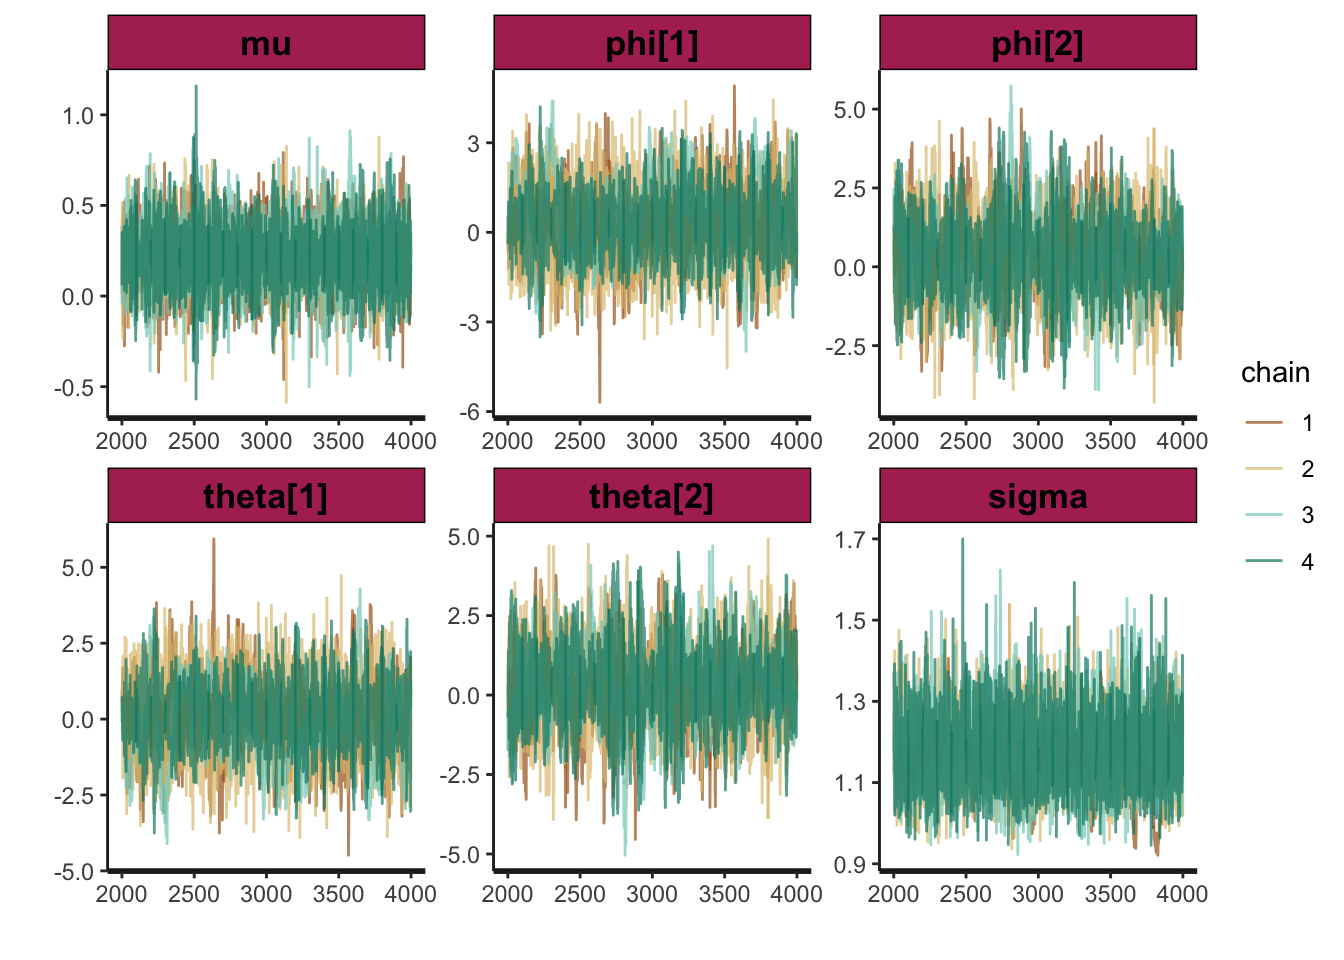
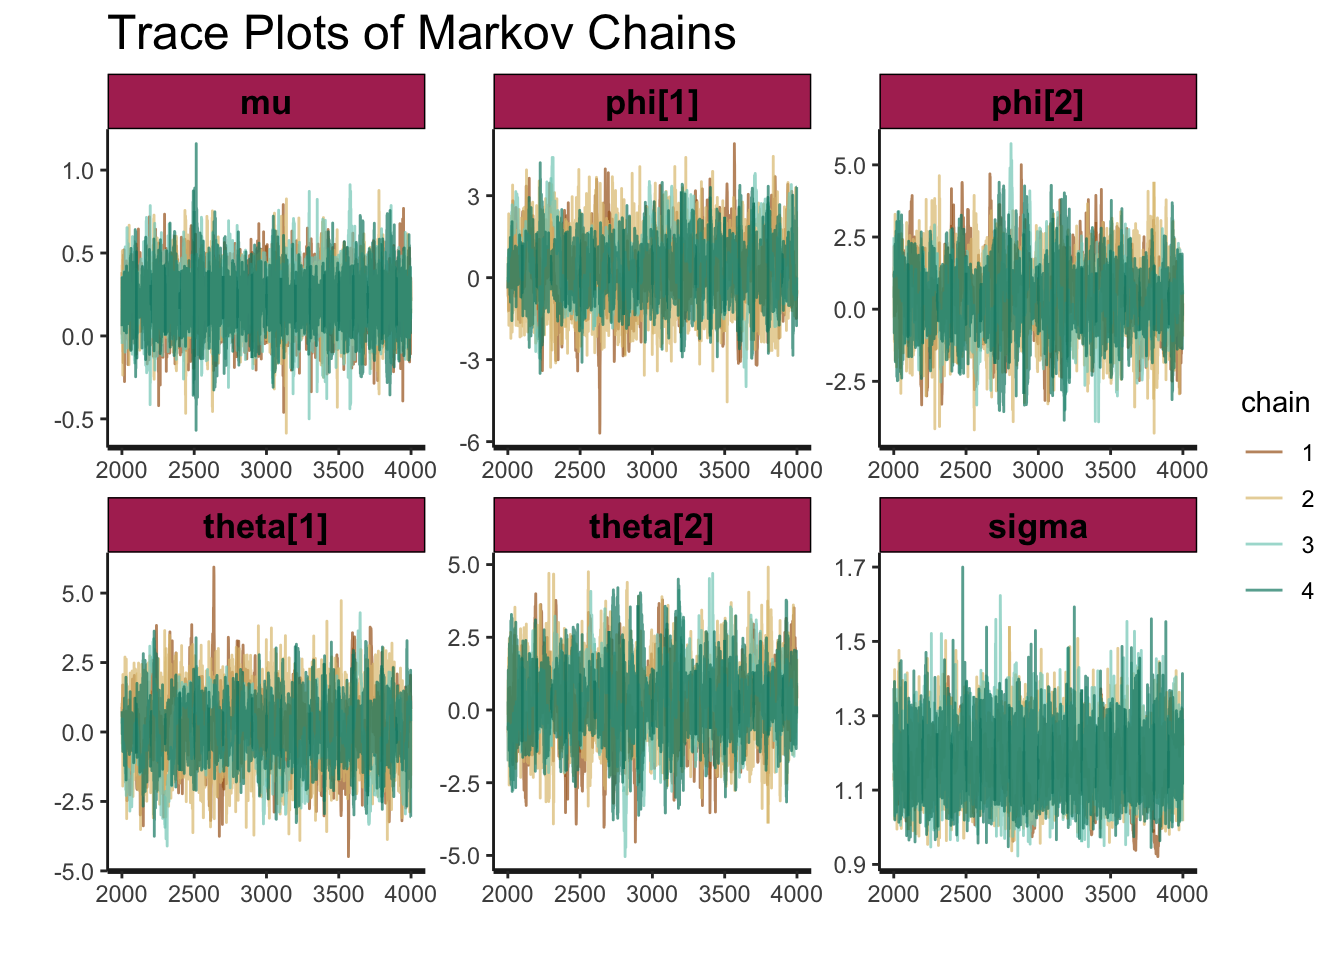
update about me section

diff --git a/P_Bayesian_TS.html b/P_Bayesian_TS.html
@@ -613,15 +613,15 @@ AR1_fit &lt;- rstan::stan(&quot;Stan_files/AR1.stan&quot;,
 ## Chain 1: Iteration: 1500 / 2000 [ 75%]  (Sampling)
 ## Chain 1: Iteration: 2000 / 2000 [100%]  (Sampling)
 ## Chain 1: 
-## Chain 1:  Elapsed Time: 0.055072 seconds (Warm-up)
-## Chain 1:                0.051779 seconds (Sampling)
-## Chain 1:                0.106851 seconds (Total)
+## Chain 1:  Elapsed Time: 0.058002 seconds (Warm-up)
+## Chain 1:                0.052662 seconds (Sampling)
+## Chain 1:                0.110664 seconds (Total)
 ## Chain 1: 
 ## 
 ## SAMPLING FOR MODEL &#39;AR1&#39; NOW (CHAIN 2).
 ## Chain 2: 
-## Chain 2: Gradient evaluation took 6e-06 seconds
-## Chain 2: 1000 transitions using 10 leapfrog steps per transition would take 0.06 seconds.
+## Chain 2: Gradient evaluation took 7e-06 seconds
+## Chain 2: 1000 transitions using 10 leapfrog steps per transition would take 0.07 seconds.
 ## Chain 2: Adjust your expectations accordingly!
 ## Chain 2: 
 ## Chain 2: 
@@ -632,15 +632,15 @@ AR1_fit &lt;- rstan::stan(&quot;Stan_files/AR1.stan&quot;,
 ## Chain 2: Iteration: 1500 / 2000 [ 75%]  (Sampling)
 ## Chain 2: Iteration: 2000 / 2000 [100%]  (Sampling)
 ## Chain 2: 
-## Chain 2:  Elapsed Time: 0.058262 seconds (Warm-up)
-## Chain 2:                0.048113 seconds (Sampling)
-## Chain 2:                0.106375 seconds (Total)
+## Chain 2:  Elapsed Time: 0.06011 seconds (Warm-up)
+## Chain 2:                0.04818 seconds (Sampling)
+## Chain 2:                0.10829 seconds (Total)
 ## Chain 2: 
 ## 
 ## SAMPLING FOR MODEL &#39;AR1&#39; NOW (CHAIN 3).
 ## Chain 3: 
-## Chain 3: Gradient evaluation took 7e-06 seconds
-## Chain 3: 1000 transitions using 10 leapfrog steps per transition would take 0.07 seconds.
+## Chain 3: Gradient evaluation took 5e-06 seconds
+## Chain 3: 1000 transitions using 10 leapfrog steps per transition would take 0.05 seconds.
 ## Chain 3: Adjust your expectations accordingly!
 ## Chain 3: 
 ## Chain 3: 
@@ -651,15 +651,15 @@ AR1_fit &lt;- rstan::stan(&quot;Stan_files/AR1.stan&quot;,
 ## Chain 3: Iteration: 1500 / 2000 [ 75%]  (Sampling)
 ## Chain 3: Iteration: 2000 / 2000 [100%]  (Sampling)
 ## Chain 3: 
-## Chain 3:  Elapsed Time: 0.060109 seconds (Warm-up)
-## Chain 3:                0.054297 seconds (Sampling)
-## Chain 3:                0.114406 seconds (Total)
+## Chain 3:  Elapsed Time: 0.058391 seconds (Warm-up)
+## Chain 3:                0.053137 seconds (Sampling)
+## Chain 3:                0.111528 seconds (Total)
 ## Chain 3: 
 ## 
 ## SAMPLING FOR MODEL &#39;AR1&#39; NOW (CHAIN 4).
 ## Chain 4: 
-## Chain 4: Gradient evaluation took 6e-06 seconds
-## Chain 4: 1000 transitions using 10 leapfrog steps per transition would take 0.06 seconds.
+## Chain 4: Gradient evaluation took 5e-06 seconds
+## Chain 4: 1000 transitions using 10 leapfrog steps per transition would take 0.05 seconds.
 ## Chain 4: Adjust your expectations accordingly!
 ## Chain 4: 
 ## Chain 4: 
@@ -670,9 +670,9 @@ AR1_fit &lt;- rstan::stan(&quot;Stan_files/AR1.stan&quot;,
 ## Chain 4: Iteration: 1500 / 2000 [ 75%]  (Sampling)
 ## Chain 4: Iteration: 2000 / 2000 [100%]  (Sampling)
 ## Chain 4: 
-## Chain 4:  Elapsed Time: 0.058601 seconds (Warm-up)
-## Chain 4:                0.060499 seconds (Sampling)
-## Chain 4:                0.1191 seconds (Total)
+## Chain 4:  Elapsed Time: 0.057353 seconds (Warm-up)
+## Chain 4:                0.054564 seconds (Sampling)
+## Chain 4:                0.111917 seconds (Total)
 ## Chain 4:</code></pre>
 <pre class="r"><code># the model 
 AR1_fit</code></pre>
@@ -686,7 +686,7 @@ AR1_fit</code></pre>
 ## sigma     1.45    0.00 0.12   1.24   1.36   1.44   1.52   1.70  2626    1
 ## lp__    -70.80    0.03 1.25 -73.92 -71.39 -70.49 -69.86 -69.35  1829    1
 ## 
-## Samples were drawn using NUTS(diag_e) at Sun May 10 00:55:13 2020.
+## Samples were drawn using NUTS(diag_e) at Sun May 10 01:26:13 2020.
 ## For each parameter, n_eff is a crude measure of effective sample size,
 ## and Rhat is the potential scale reduction factor on split chains (at 
 ## convergence, Rhat=1).</code></pre>
@@ -757,7 +757,7 @@ ARp_fit</code></pre>
 ## sigma      1.17    0.00 0.09   1.00   1.10   1.16   1.22   1.37  1429 1.00
 ## lp__     -55.96    0.06 1.67 -60.18 -56.73 -55.62 -54.79 -53.86   793 1.01
 ## 
-## Samples were drawn using NUTS(diag_e) at Sun May 10 00:55:15 2020.
+## Samples were drawn using NUTS(diag_e) at Sun May 10 01:26:15 2020.
 ## For each parameter, n_eff is a crude measure of effective sample size,
 ## and Rhat is the potential scale reduction factor on split chains (at 
 ## convergence, Rhat=1).</code></pre>
@@ -822,7 +822,7 @@ ARCH1_fit</code></pre>
 ## sigma      2.12    0.03 0.88    1.02    1.48    1.90   2.51   4.39   670 1.00
 ## lp__    -100.58    0.07 1.48 -104.29 -101.35 -100.24 -99.49 -98.60   444 1.01
 ## 
-## Samples were drawn using NUTS(diag_e) at Sun May 10 00:55:18 2020.
+## Samples were drawn using NUTS(diag_e) at Sun May 10 01:26:18 2020.
 ## For each parameter, n_eff is a crude measure of effective sample size,
 ## and Rhat is the potential scale reduction factor on split chains (at 
 ## convergence, Rhat=1).</code></pre>
@@ -903,7 +903,7 @@ MAq_fit</code></pre>
 ## sigma       4.11    2.59  2.59    1.33    1.51    4.32   6.70   6.81     1 32.74
 ## lp__     -141.11   59.90 59.93 -202.93 -201.08 -145.80 -80.86 -78.59     1 42.04
 ## 
-## Samples were drawn using NUTS(diag_e) at Sun May 10 00:55:48 2020.
+## Samples were drawn using NUTS(diag_e) at Sun May 10 01:26:48 2020.
 ## For each parameter, n_eff is a crude measure of effective sample size,
 ## and Rhat is the potential scale reduction factor on split chains (at 
 ## convergence, Rhat=1).</code></pre>
@@ -1003,7 +1003,7 @@ ARMApq_fit</code></pre>
 ## sigma      1.18    0.00 0.09   1.00   1.11   1.17   1.24   1.37   524 1.01
 ## lp__     -56.09    0.05 1.72 -60.19 -56.96 -55.76 -54.83 -53.71  1208 1.00
 ## 
-## Samples were drawn using HMC(diag_e) at Sun May 10 00:58:32 2020.
+## Samples were drawn using HMC(diag_e) at Sun May 10 01:29:37 2020.
 ## For each parameter, n_eff is a crude measure of effective sample size,
 ## and Rhat is the potential scale reduction factor on split chains (at 
 ## convergence, Rhat=1).</code></pre>
@@ -1034,9 +1034,10 @@ stan_hist(ARMApq_fit,
 <pre class="r"><code># Let&#39;s look at the chains themselves
 stan_trace(ARMApq_fit, 
            alpha = 0.7) +
-  scale_color_brewer(type = &quot;div&quot;) +
-     theme(strip.background = ggplot2::element_rect(fill = &quot;maroon&quot;),
-                     strip.text = ggplot2::element_text(size = 13, color = &quot;black&quot;)) </code></pre>
+        labs(title =&#39;Trace Plots of Markov Chains&#39;) + 
+        scale_color_brewer(type = &quot;div&quot;) +
+        theme(strip.background = ggplot2::element_rect(fill = &quot;maroon&quot;),
+              strip.text = ggplot2::element_text(size = 13, color = &quot;black&quot;)) </code></pre>
 <p><img src="P_Bayesian_TS_files/figure-html/Posterior%20Plots-3.png" width="672" /></p>
 <pre class="r"><code># Look at individual parameter&#39;s chains 
 stan_trace(ARMApq_fit,
@@ -1049,7 +1050,7 @@ stan_trace(ARMApq_fit,
      theme(strip.background = ggplot2::element_rect(fill = &quot;maroon&quot;),
            plot.title = element_text(color = &#39;black&#39;),
            strip.text = ggplot2::element_text(size = 12, color = &quot;white&quot;),
-           plot.background = element_rect(fill = &#39;grey90&#39;))</code></pre>
+           plot.background = element_rect(fill = &#39;white&#39;))</code></pre>
 <p><img src="P_Bayesian_TS_files/figure-html/Posterior%20Plots-4.png" width="672" /></p>
 <pre class="r"><code># Lastly we have the scatterplots. These will show the joint posteriors of 
 # 2 named parameters 

diff --git a/about.html b/about.html
@@ -402,9 +402,18 @@ text-align: justify}
 <div style="float:left;position: relative; top: 7px; padding-right: 30px;">
 <p><img src="Images/Front_pg_Paris_oval.jpg" style="width:2in" /></p>
 </div>
+<div id="biography" class="section level1">
+<h1><span class="header-section-number">1</span> Biography</h1>
 <p>I’m currently a graduate student at Ryerson University in downtown Toronto, pursuing the M.Sc in Applied Mathematics (thesis option). I completed my undergraduate degree at the University of Toronto where I did a specialist in statistics and minor in mathematics. Most of my studies have been focused on statistics, specifically Bayesian methods and machine learning. I’ve been lucky enough to get some hands on experience with some of these skills through various internships during my undergrad and hope to continue to enhance my abilities by pursuing a Ph.D after my Master’s degree. </p>
 <p>My passion for statistics stems from the field’s natural ability to conform to a plethora of disciplines. Beginning with finance, transitioning to biology and more recently humanities, it has led to me to explore a diverse knowledge base and constantly pushed me to adapt and learn new concepts. I love the challenge of solving problems that force me into areas I’ve never explored. This mentality has helped me through each stop in my career and allowed me build a toolkit for tackling any new problem. </p>
-<p>In addition to being a quantitative mind, I’m also an avid sports fan, following basketball (was waiting 15 years for the Raptors to win it all), hockey, and baseball and have played volleyball at an elite level. I now continue to play volleyball while experimenting with other sports and have picked up photography.</p>
+My research interests include:
+
+<p>This list is ever growing and not exhaustive. Interesting problems will come up and if you have any interest in collaborating, please dont hesitate to reach out.  In addition to being a quantitative mind, I’m also an avid sports fan, following basketball (was waiting 15 years for the Raptors to win it all), hockey, and baseball and have played volleyball at an elite level. I now continue to play volleyball while experimenting with other sports and have picked up photography.</p>
+</div>
+<div id="contact-information" class="section level1">
+<h1><span class="header-section-number">2</span> Contact Information</h1>
+<p>You can reach out to me via my email: <a href="mailto:alin.morariu@ryerson.ca">alin.morariu@ryerson.ca</a></p>
+</div>
 
 
 

diff --git a/index.html b/index.html
@@ -408,9 +408,14 @@ text-align: justify}
 <p>Throughout the site you will find examples of my course work and personal project along side material that I use to teach in any of my tutorials/office hours. The latter will be sorted by courses, semester and finally section.</p>
 <div id="currently-ta-ing" class="section level2">
 <h2>Currently TA-ing:</h2>
-<p><a href="https://a-morariu.github.io/T_MTH380_tutorial.html">MTH380 - Fall 2019</a>: Probability and Statistics 1</p>
+<p>MTH410 - Summmer 2020: Statistics for Engineers</p>
 <div id="previously-tad" class="section level3">
 <h3>Previously TA’d:</h3>
+<div id="ryerson-university" class="section level4">
+<h4>Ryerson University</h4>
+<p>MTH410 - Winter 2020: Statistics for Engineers</p>
+<p><a href="https://a-morariu.github.io/T_MTH380_tutorial.html">MTH380 - Fall 2019</a>: Probability and Statistics 1</p>
+</div>
 <div id="university-of-toronto" class="section level4">
 <h4>University of Toronto</h4>
 <p><a href="https://a-morariu.github.io/T_STA302_tutorial.html">STA302 - Summer 2019</a>: Methods for Data Analysis 1</p>
